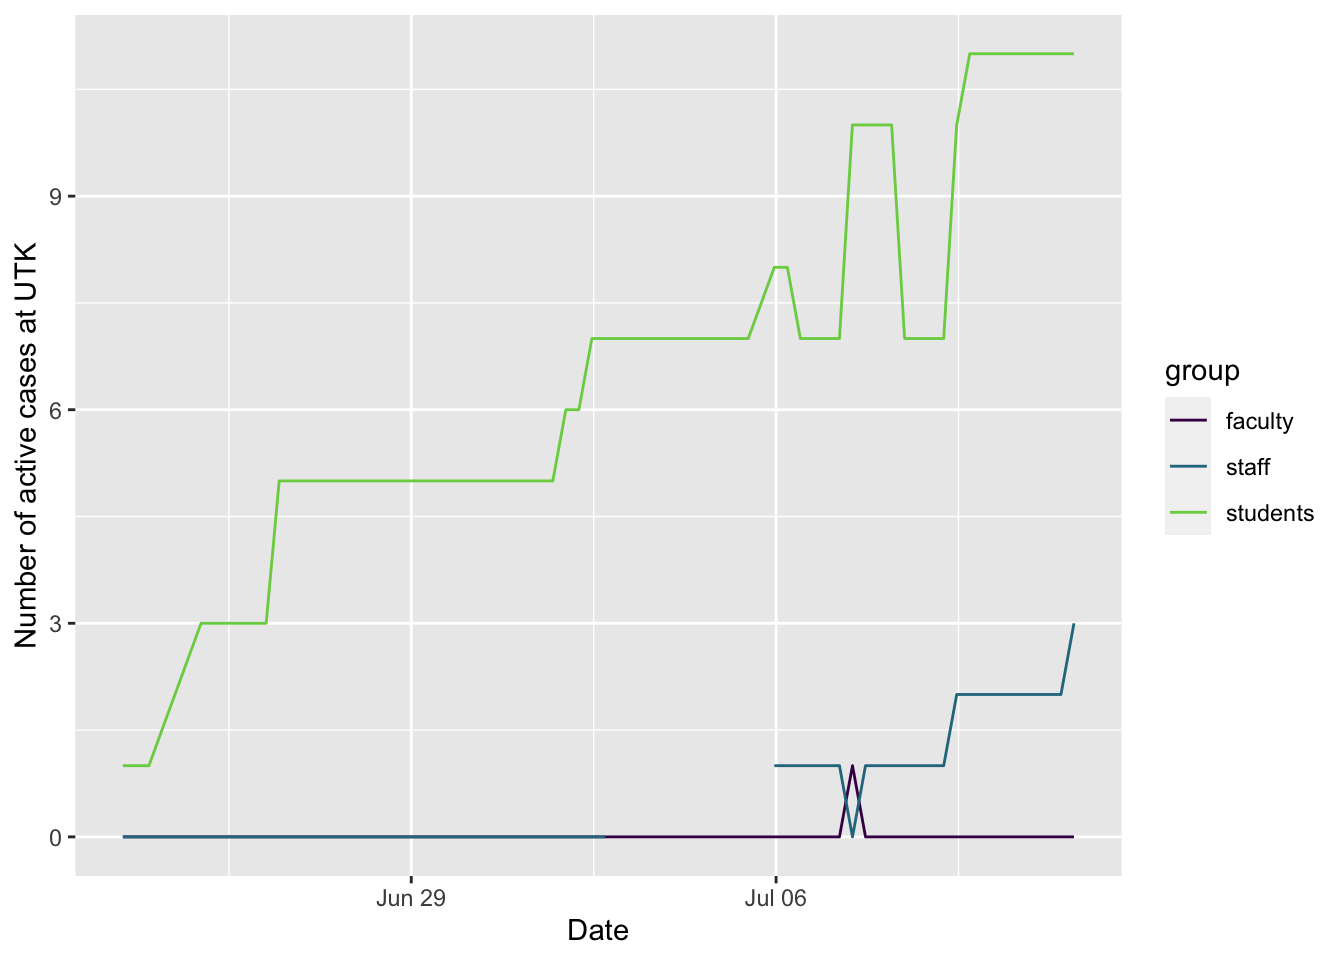
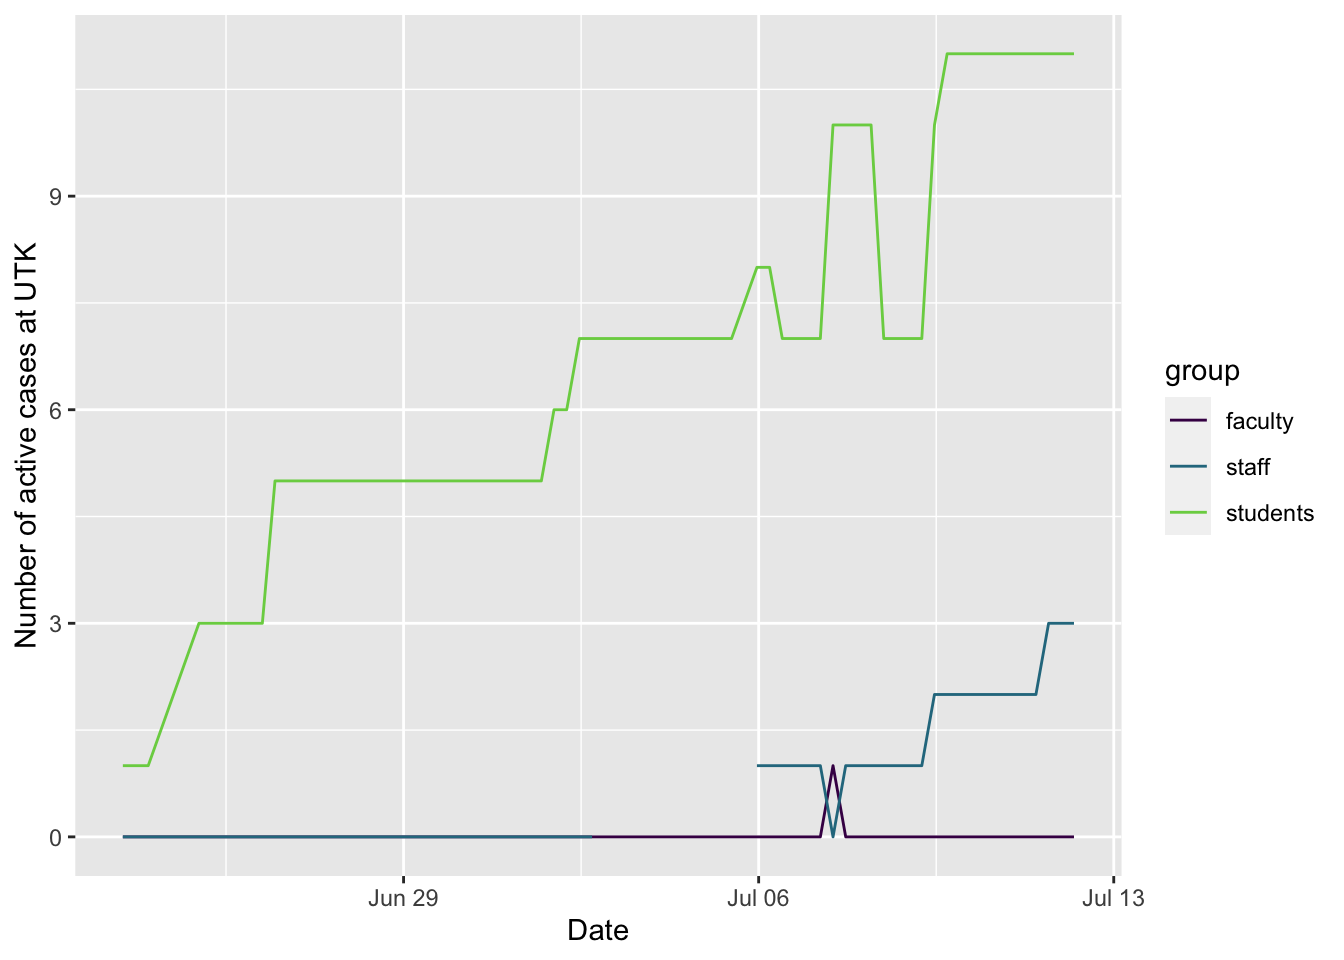
updating site

diff --git a/docs/covid.html b/docs/covid.html
@@ -412,7 +412,7 @@ $(document).ready(function () {
 <li><a href="https://projects.propublica.org/reopening-america/">ProPublica’s tracker of state status</a>. Click on the play button below their map to see how rates are changing over time, and dig into info on your state.</li>
 </ul>
 <hr />
-<p>Here are some plots, created in R using data from <a href="https://covid19datahub.io" class="uri">https://covid19datahub.io</a> (Guidotti, E., Ardia, D., (2020), “COVID-19 Data Hub”, Working paper, doi: 10.13140/RG.2.2.11649.81763), as well as information from Google and the <a href="https://www.tn.gov/health/cedep/ncov/data/downloadable-datasets.html">state of Tennessee dataset page</a> and plotting and analysis using the <code>forecast</code>, <code>ggplot2</code>, <code>reshape2</code>, and <code>dplyr</code> packages. It also uses the <a href="https://github.com/mtna/rds-r">rds-r</a> package from <a href="https://www.richdataservices.com/" class="uri">https://www.richdataservices.com/</a>. Plots created on 2020-07-11 21:52:03. I use <code>ggplot2</code>’s <code>geom_smooth()</code> function for the smoothed regression plots with its default formula, which uses loess smoothing for this many points. This is not based on a model of disease spread or anything similarly sophisticated, just drawing a smooth curve to summarize noisy points (see <a href="https://www.itl.nist.gov/div898/handbook/pmd/section1/pmd144.htm">here</a> for more details).</p>
+<p>Here are some plots, created in R using data from <a href="https://covid19datahub.io" class="uri">https://covid19datahub.io</a> (Guidotti, E., Ardia, D., (2020), “COVID-19 Data Hub”, Working paper, doi: 10.13140/RG.2.2.11649.81763), as well as information from Google and the <a href="https://www.tn.gov/health/cedep/ncov/data/downloadable-datasets.html">state of Tennessee dataset page</a> and plotting and analysis using the <code>forecast</code>, <code>ggplot2</code>, <code>reshape2</code>, and <code>dplyr</code> packages. It also uses the <a href="https://github.com/mtna/rds-r">rds-r</a> package from <a href="https://www.richdataservices.com/" class="uri">https://www.richdataservices.com/</a>. Plots created on 2020-07-12 10:58:43. I use <code>ggplot2</code>’s <code>geom_smooth()</code> function for the smoothed regression plots with its default formula, which uses loess smoothing for this many points. This is not based on a model of disease spread or anything similarly sophisticated, just drawing a smooth curve to summarize noisy points (see <a href="https://www.itl.nist.gov/div898/handbook/pmd/section1/pmd144.htm">here</a> for more details).</p>
 <p>The number of new and active cases should be not be going up if things are well-controlled, and ideally should be going down. The number of active cases is the number of positive cases minus the total of recovered or deceased cases: note it is from those tested and shown to be positive, but there are likely more people with covid who have not been tested. This uses data from <a href="https://www.tn.gov/health/cedep/ncov/data/downloadable-datasets.html" class="uri">https://www.tn.gov/health/cedep/ncov/data/downloadable-datasets.html</a>. Note that the number of active cases in Knox County reported by the state differs from the <a href="https://covid.knoxcountytn.gov/case-count.html#covid_data">county website</a>, sometimes dramatically (on June 16, the county website said 102 active cases, while the state says 178, for example) – I suspect this is based on the number of recovered cases not being updated as quickly in the state data, but I do not know. Knox County does not seem to offer a download of their data through time, so I am using the state’s data. The number of new cases per day seems to align fairly well, but not perfectly, between the state and county data, too.</p>
 <p><img src="covid_files/figure-html/plotsA-1.png" width="672" /><img src="covid_files/figure-html/plotsA-2.png" width="672" /></p>
 <p>A question is whether testing is adequate. The White House has said about 30 tests per 1000 people per month is adequate (this is also what <a href="https://projects.propublica.org/reopening-america/#notes">ProPublica</a> uses); others have argued that around 45 tests per 1000 people per month is better, though with variation depending on infection rate (see <a href="https://www.statnews.com/2020/04/27/coronavirus-many-states-short-of-testing-levels-needed-for-safe-reopening/">here</a>). These are the black lines on the plots below (calculated as tests per day, given Knox County’s population of 470313).</p>
